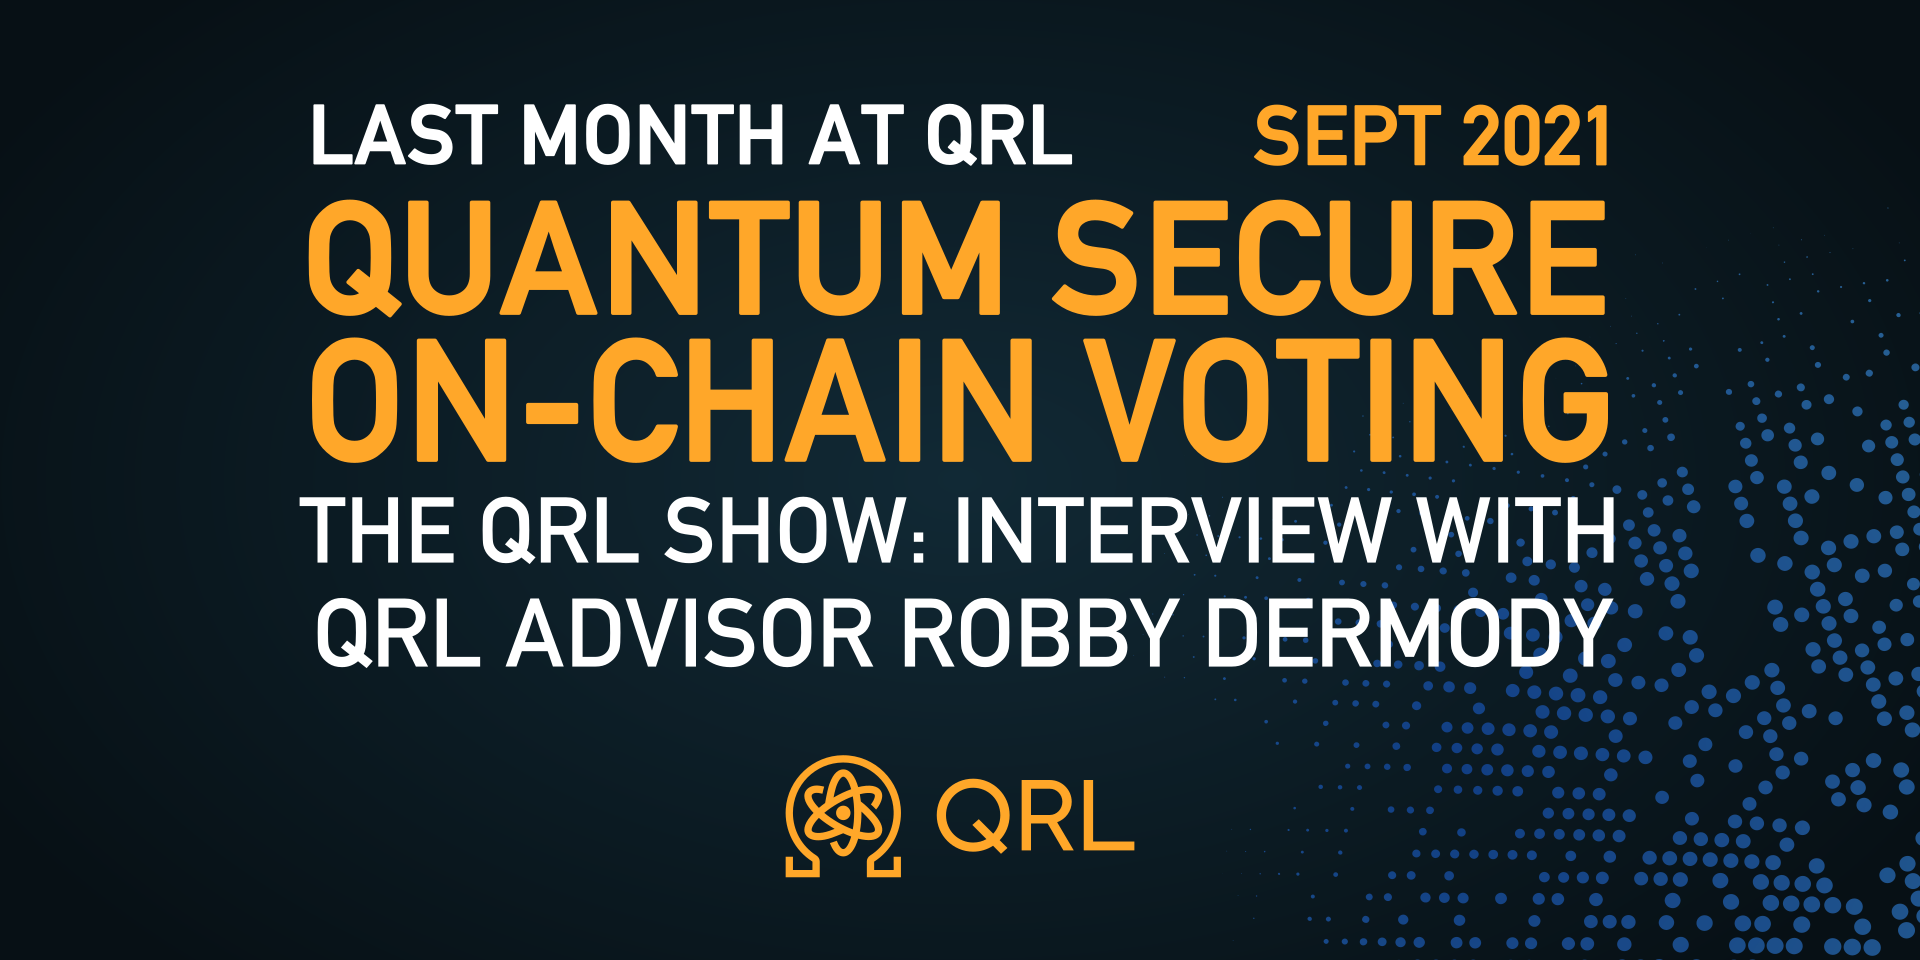
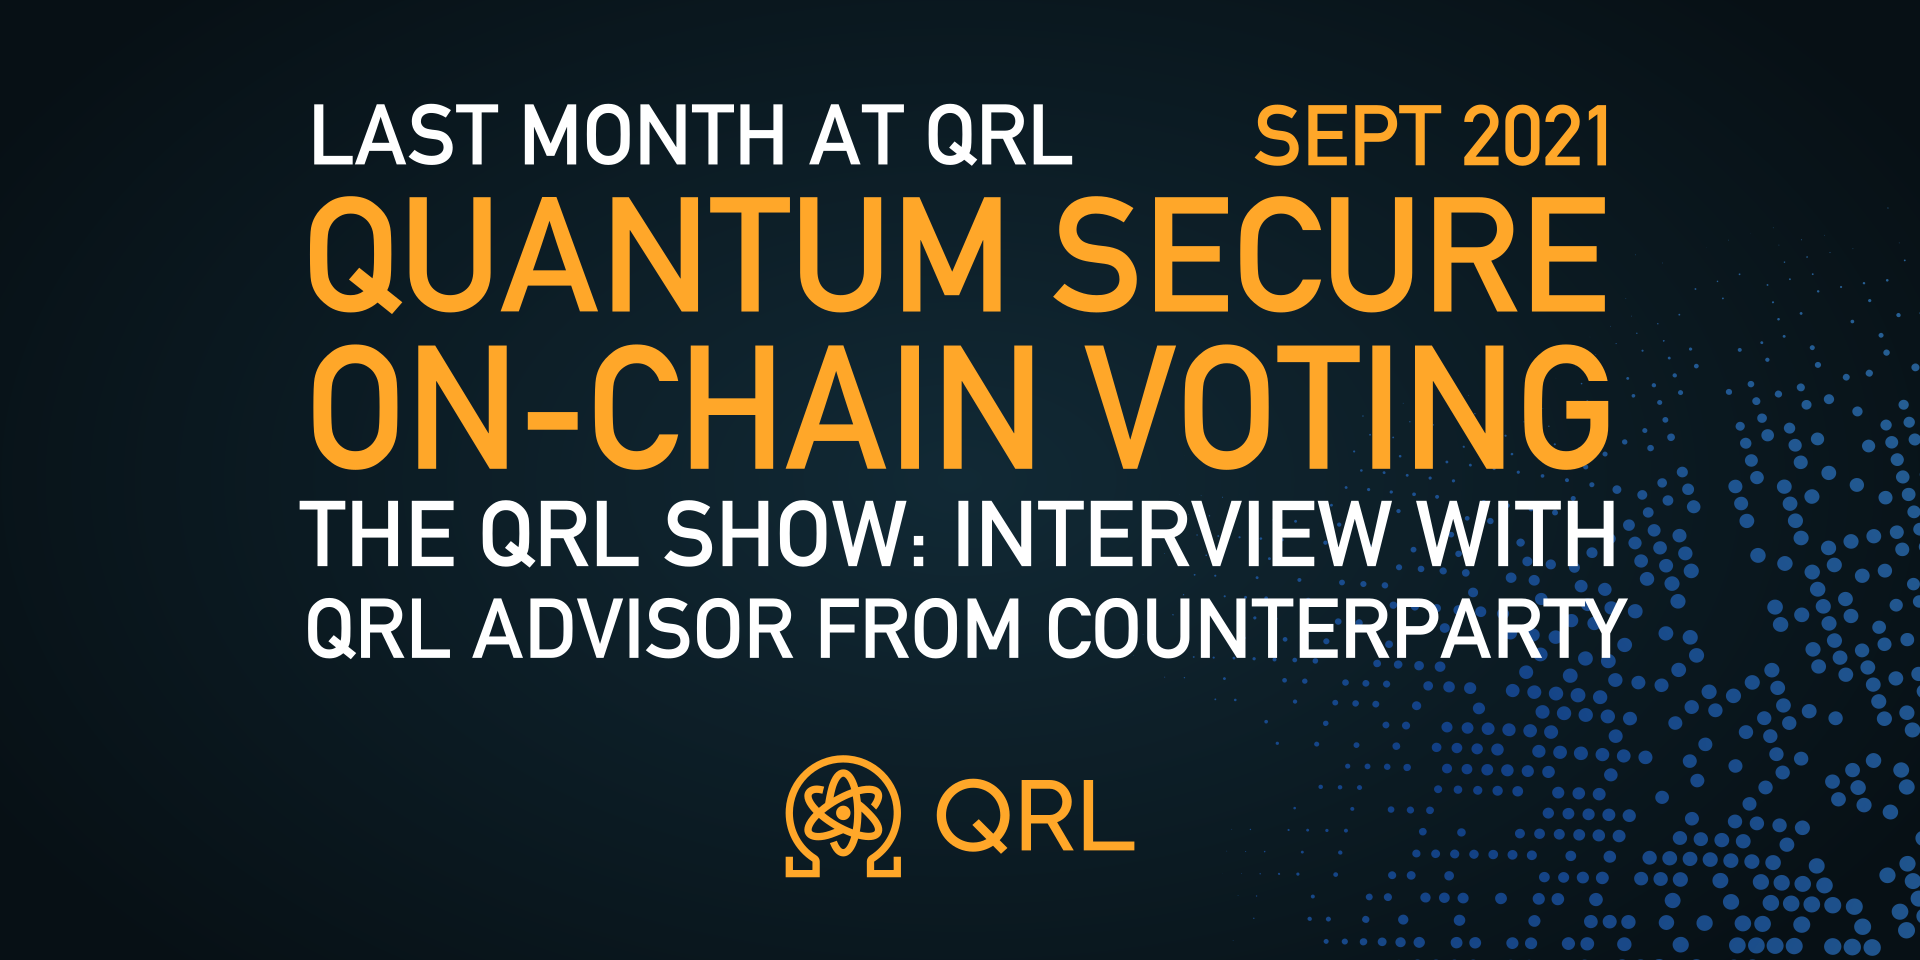
Add counterparty

diff --git a/content/blog/2018/reflecting-on-consensus-2018/index.md b/content/blog/2018/reflecting-on-consensus-2018/index.md
@@ -29,7 +29,7 @@ While nothing can match the pure attention grab of an on-stage presentation, I w
 
 {{< image "./images/15L5Qw6zY8ySuKmi0oyV2aQ.jpeg" >}}*From left to right: James, Michael, Discord user Terria, Juan, Adam*
 
-The QRL supporter meetup at Connolly’s Pub and Restaurant occurred on the first night of the conference and was, by all accounts, a success. Being able to meet some of our users in person, as well as meeting our adviser Robby Dermody in person for the first time were fulfilling and productive experiences.
+The QRL supporter meetup at Connolly’s Pub and Restaurant occurred on the first night of the conference and was, by all accounts, a success. Being able to meet some of our users in person, as well as meeting our adviser from [counterparty](https://counterparty.io) in person for the first time were fulfilling and productive experiences.
 
 We talked about how we each came to the project, the state of cryptocurrency currently, and the unusually good weather in NYC that day (we were supposed to get rain, which did indeed arrive mid-Tuesday, and stayed for the rest of the conference), and what we had each done during the first day of the conference. While we do not always have time to have supporter meetups when we attend conferences, I was thankful that we had time during Consensus, because it turned out to be, for me at least, the most relaxing evening of the week.
 

diff --git a/content/blog/2021/last-month-at-qrl-september-2021/index.md b/content/blog/2021/last-month-at-qrl-september-2021/index.md
@@ -63,9 +63,9 @@ Completing this allows for work to commence on the QRL Enhancement Program, whic
 
 ## Advocacy
 
-### The QRL Show with QRL Advisor Robby Dermody on Crypto, NFT’s, RAREPEPE’s and more
+### The QRL Show with QRL Advisor from Counterparty on Crypto, NFT’s, RAREPEPE’s and more
 
-Robby Dermody is a QRL advisor for QRL and Principal at Stoic Capital, an investment fund in the cryptocurrency space. Previous to this, he co-founded Counterparty, a technology project building advanced functionality on Bitcoin, and Symbiont, a solutions provider of distributed ledger technology to institutional finance. Through his work at Counterparty, he was an early pioneer in the development of smart contracts and financial applications of blockchain technology. 
+QRL advisor for QRL and Principal at Stoic Capital, an investment fund in the cryptocurrency space. Previous to this, he co-founded Counterparty, a technology project building advanced functionality on Bitcoin, and Symbiont, a solutions provider of distributed ledger technology to institutional finance. Through his work at Counterparty, he was an early pioneer in the development of smart contracts and financial applications of blockchain technology. 
 
 {{< youtube "5wJMSK_rNwA" >}}
 

diff --git a/content/blog/2017/get-ready-for-qrl-launch/index.md b/content/blog/2017/get-ready-for-qrl-launch/index.md
@@ -65,7 +65,7 @@ This allows much of our exciting layer two functionality to now come online!
 
 We will shortly be announcing **three new full-time members of the team** working in UX, mobile and an additional core developer. More on this in the coming days. The QRL remote office is becoming a busy place to reside.
 
-Additionally we are delighted to add** another advisor**, Robby Dermody, to the team. He is a founder of the [Counterparty project](https://counterparty.io) and has already proved an excellent addition to our growing project.
+Additionally we are delighted to add** another advisor**, to the team. He is a founder of the [Counterparty project](https://counterparty.io) and has already proved an excellent addition to our growing project.
 
 ## Conferences 2018
 

diff --git a/content/blog/2018/it-takes-a-community-to-raise-a-crypto/index.md b/content/blog/2018/it-takes-a-community-to-raise-a-crypto/index.md
@@ -1,7 +1,7 @@
 ---
 slug: it-takes-a-community-to-raise-a-crypto
 date: 2018-02-13
-author: "Robby Dermody"
+author: "Counterparty"
 layout: blog-post
 title: "It takes a community to raise a crypto"
 summary: "I’m happy to be formally advising and assisting the QRL project. In late 2013 I co-founded the Counterparty project. Counterparty pioneered the first working decentralized exchange technology, as well as some of the earliest blockchain-based financial contracts, and hosted many of the first Initial Coin Offerings (ICOs). I am also an original pre-sale QRL investor and have not sold a single quanta from my initial investment."

diff --git a/content/team/counterparty/_index.md b/content/team/counterparty/_index.md
@@ -1,0 +1,10 @@
+---
+layout: team-member
+name: "Counterparty"
+slug: counterparty
+role: "core"
+profile: /img/feat-logos/counterparty.200x200.png
+inactive: true
+---
+
+[Counterparty](https://counterparty.io/) extends Bitcoin in new and powerful ways.
